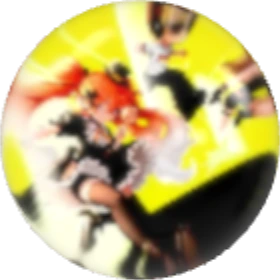
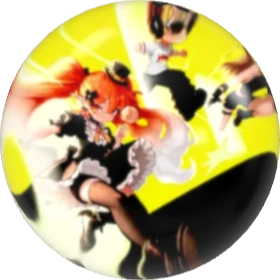
Restore full-resolution glass rendering and crisp first frames

diff --git a/src/modules/creator-center/SmartGlassScene.tsx b/src/modules/creator-center/SmartGlassScene.tsx
@@ -72,8 +72,9 @@ function SmartGlassScene({ expanded = false, posters, captions, motionTimeRef, p
     let frame = 0
     let visible = true
     let lastRenderTime = 0
-    renderer.transmissionResolutionScale = 0.75
-    renderer.setPixelRatio(Math.min(window.devicePixelRatio || 1, 2))
+    // Keep the refracted artwork at full resolution; low-res transmission softens videos.
+    renderer.transmissionResolutionScale = 1
+    renderer.setPixelRatio(2)
     renderer.outputColorSpace = THREE.SRGBColorSpace
     renderer.setClearColor(0xffffff, 0)
     renderer.domElement.setAttribute('aria-hidden', 'true')
